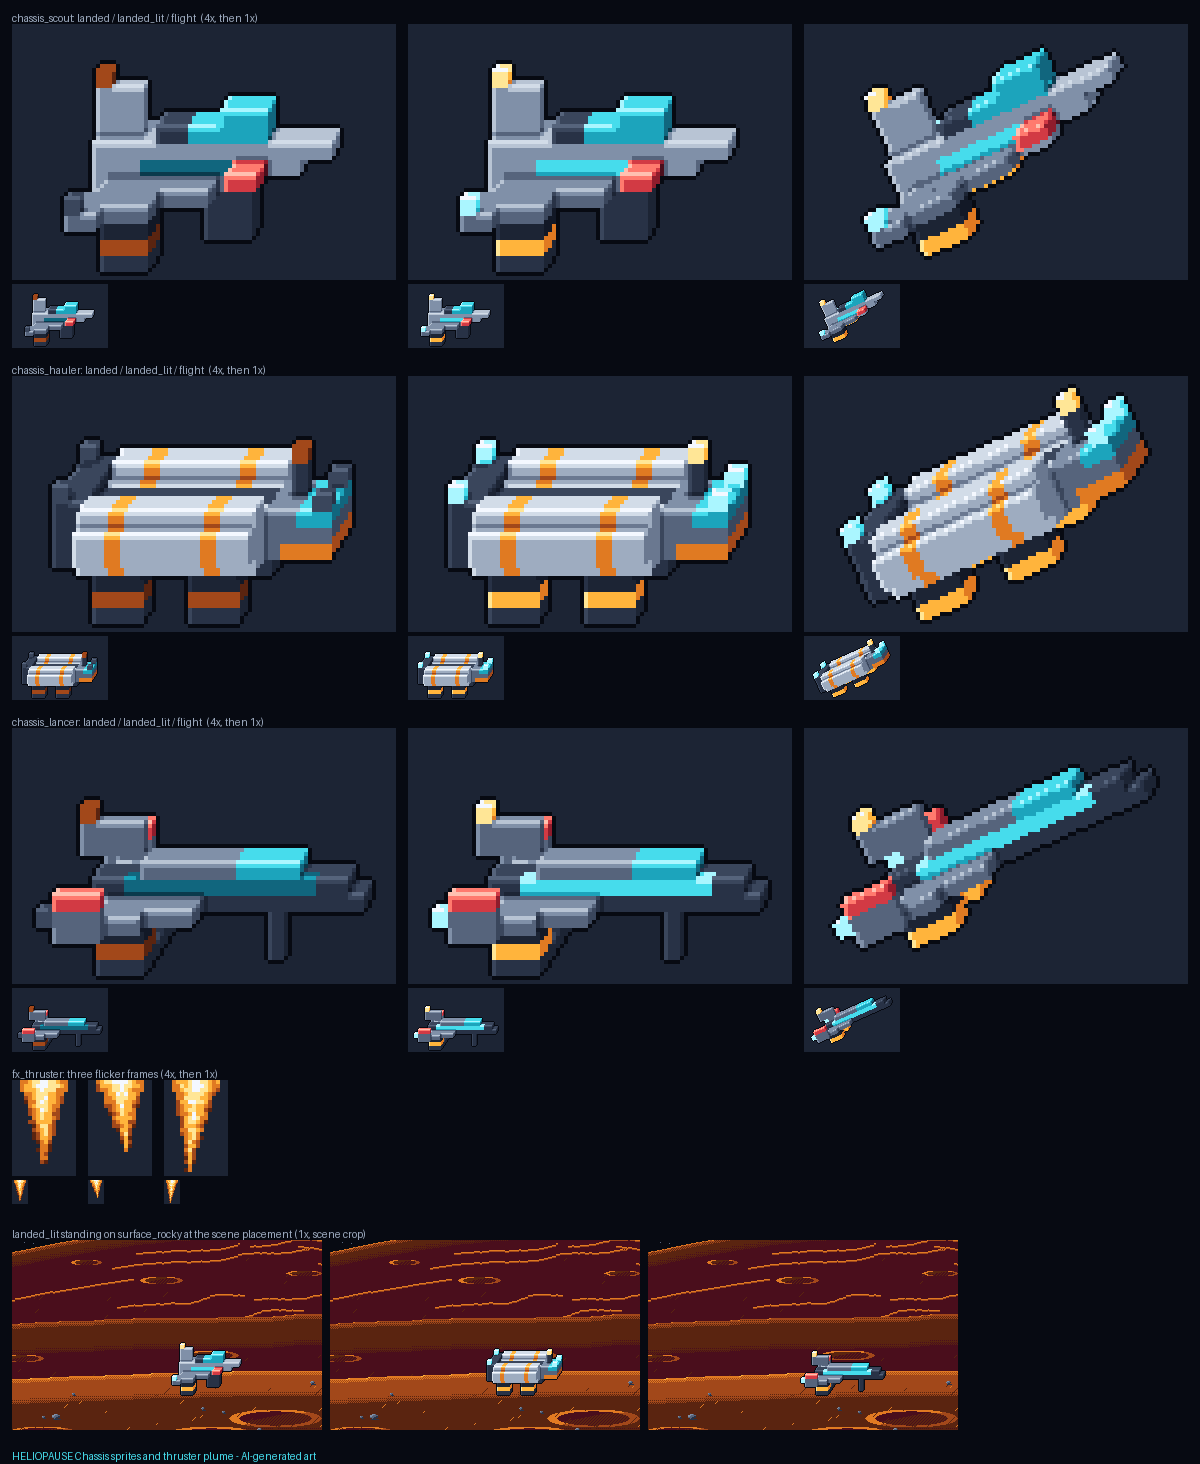
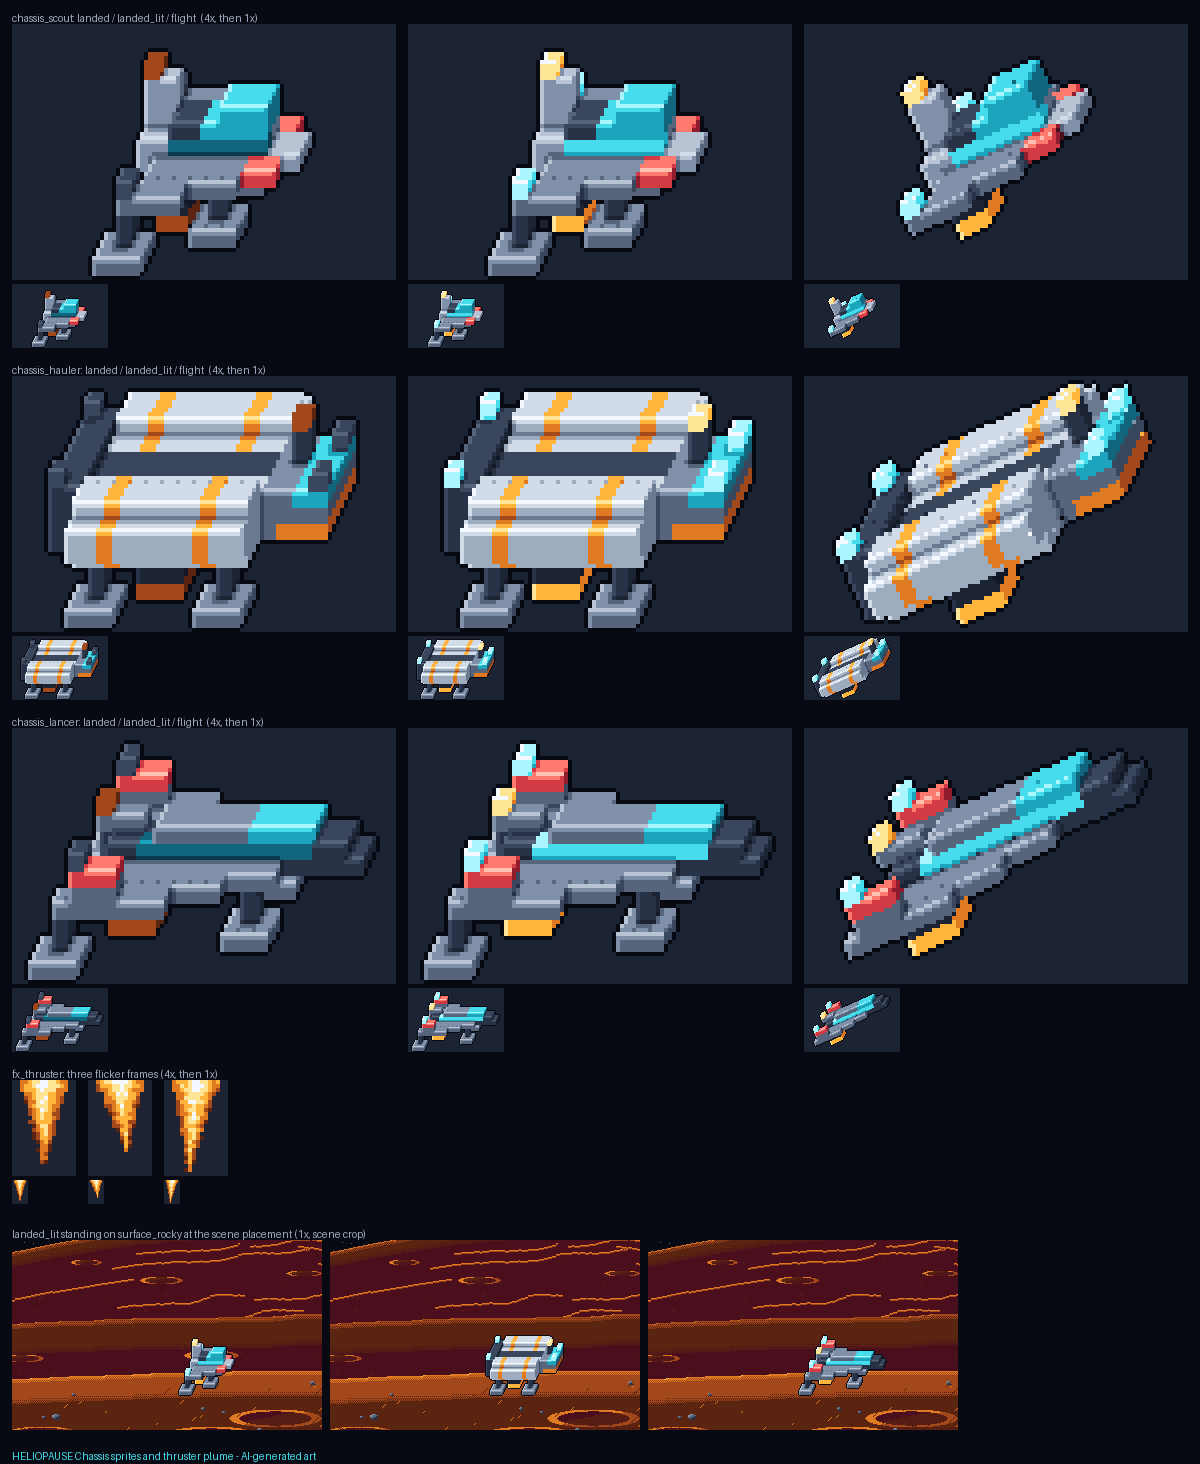
fix(assets): high 3/4 view, landing struts beside nozzles, smaller scout

diff --git a/scripts/assets/chassisAssets.test.ts b/scripts/assets/chassisAssets.test.ts
@@ -124,17 +124,48 @@ describe('Chassis sprites', () => {
     }
   });
 
+  it('the scout is the smallest landed Chassis, and every landed ship touches the frame bottom', () => {
+    const outline = (id: string): { width: number; height: number; bottom: number } => {
+      const png = decodePng(read(atlas(`chassis_${id}`).image));
+      const frame = frames(`chassis_${id}`)['landed']?.frame;
+      if (!frame) throw new Error(`${id} lacks landed`);
+      let [minX, minY, maxX, maxY] = [frame.w, frame.h, -1, -1];
+      for (let y = 0; y < frame.h; y++) {
+        for (let x = 0; x < frame.w; x++) {
+          if ((png.rgba[((frame.y + y) * png.width + frame.x + x) * 4 + 3] ?? 0) === 0) continue;
+          [minX, minY, maxX, maxY] = [
+            Math.min(minX, x),
+            Math.min(minY, y),
+            Math.max(maxX, x),
+            Math.max(maxY, y),
+          ];
+        }
+      }
+      return { width: maxX - minX + 1, height: maxY - minY + 1, bottom: maxY };
+    };
+    const [scout, hauler, lancer] = [outline('scout'), outline('hauler'), outline('lancer')];
+    const area = (box: { width: number; height: number }): number => box.width * box.height;
+    expect(area(scout)).toBeLessThan(area(hauler) * 0.85);
+    expect(area(scout)).toBeLessThan(area(lancer) * 0.85);
+    expect(scout.width).toBeLessThan(Math.min(hauler.width, lancer.width) - 10);
+    for (const ship of [scout, hauler, lancer]) expect(ship.bottom).toBe(63);
+  });
+
   it('uses only palette colours, fully opaque or fully transparent', () => {
     for (const key of ['chassis_scout', 'chassis_hauler', 'chassis_lancer', 'fx_thruster']) {
       const { rgba } = decodePng(read(atlas(key).image));
+      const offPalette = new Set<string>();
+      const partialAlpha = new Set<number>();
       for (let i = 0; i < rgba.length; i += 4) {
-        const alpha = rgba[i + 3];
-        expect([0, 255]).toContain(alpha);
+        const alpha = rgba[i + 3] ?? 0;
+        if (alpha !== 0 && alpha !== 255) partialAlpha.add(alpha);
         if (alpha === 255) {
           const colour = hex(rgba[i] ?? 0) + hex(rgba[i + 1] ?? 0) + hex(rgba[i + 2] ?? 0);
-          expect(palette.has(colour), `${key}: #${colour} is not in palette.json`).toBe(true);
+          if (!palette.has(colour)) offPalette.add(`#${colour}`);
         }
       }
+      expect([...offPalette], `${key}: colours not in palette.json`).toEqual([]);
+      expect([...partialAlpha], `${key}: partly transparent pixels`).toEqual([]);
     }
   });
 });

diff --git a/docs/design/sprites/gen_sprites.py b/docs/design/sprites/gen_sprites.py
@@ -786,9 +786,9 @@ def surface_preview(surfaces, ship, path):
 #   Everything in this section is self-contained (functions named `chassis_*`, `_vox*`).
 
 CHASSIS_FRAME = (96, 64)
-CHASSIS_FEET_ROW = 62  # last opaque row (outline included) of a landed frame
+CHASSIS_FEET_ROW = 63  # last opaque row of a landed frame (the outline under the feet): it touches the bottom edge
 VOX = 4  # pixels per voxel edge
-DEPTH_X, DEPTH_Y = 0.35, 0.5  # screen shift per voxel of depth (away from the viewer)
+DEPTH_X, DEPTH_Y = 0.45, 0.85  # screen shift per voxel of depth (away from the viewer): a high 3/4 view
 FLIGHT_PITCH = math.radians(24)
 
 # Material ramps, dark -> bright (face level 0..4).
@@ -865,7 +865,7 @@ class _Vox:
         g = np.zeros((hi[0] - lo[0], hi[1] - lo[1], hi[2] - lo[2]), dtype=np.int8)
         for (x, y, z), m in self.cells.items():
             g[x - lo[0], y - lo[1], z - lo[2]] = VOX_MATS.index(m) + 1
-        return g, lo
+        return g
 
 
 def _vox_ramp(mat, state):
@@ -877,11 +877,11 @@ def _vox_ramp(mat, state):
 def _vox_render(model, state, pitch=0.0, canvas=(160, 128)):
     """Ray-march the model into a transparent canvas; returns a Spr (no outline yet).
 
-    Screen = (x + 0.35y, -z - 0.5y) voxel units: far things (larger y) sit up and to the
+    Screen = (x + 0.45y, -z - 0.85y) voxel units: far things (larger y) sit up and to the
     right, so the near side face, the top and the nose face (+x) are the visible ones.
     `pitch` tilts the nose up around the model's centre.
     """
-    grid, _ = model.grid()
+    grid = model.grid()
     nx, ny, nz = grid.shape
     cx, cz = nx / 2.0, nz / 2.0
     cw, ch = canvas
@@ -960,35 +960,42 @@ def _vox_render(model, state, pitch=0.0, canvas=(160, 128)):
 
 
 # --- the three designs
-def chassis_scout(legs=True):
-    """Small and nimble: a pale dart with swept delta wings, a bubble canopy and a tall dorsal fin."""
-    v = _Vox()
-    v.box(1, 11, -1, 1, 3, 6, "pale")  # fuselage
-    v.box(11, 14, -1, 1, 4, 6, "pale")  # nose cone, belly rising
-    v.box(14, 16, -1, 1, 5, 6, "pale")  # needle tip
-    v.box(7, 12, -1, 1, 6, 7, "glass")  # bubble canopy
-    v.box(9, 12, -1, 1, 7, 8, "glass")
-    v.box(5, 7, -1, 1, 6, 7, "dark")  # canopy frame
-    v.sym(2, 9, 1, 3, 3, 4, "hull")  # swept delta wings
-    v.sym(1, 6, 3, 5, 3, 4, "hull")
-    v.sym(1, 3, 5, 6, 3, 4, "hull")
-    v.sym(10, 12, 1, 3, 4, 5, "crimson")  # canards
-    v.box(1, 4, 0, 1, 6, 9, "pale")  # dorsal fin
-    for x in range(4, 11):
-        v.put(x, -1, 4, "strip")  # glowing flank
-    v.put(1, 5, 4, "light")
-    v.put(1, -6, 4, "light")
-    v.put(1, 0, 9, "beacon")
-    v.sym(3, 6, 3, 5, 2, 3, "nozzle")  # hover nozzles under the wings
-    v.sym(3, 6, 3, 5, 1, 2, "glow")
+def _gear(v, legs, feet, nozzles):
+    """Hover nozzles (dark bell, amber outlet on the lowest layer so it faces the ground)
+    and, when landed, thin struts on flat pads standing beside them, fore and aft.
+    feet: (x0, x1, y0, y1) of each strut; its pad reaches one voxel further out."""
+    for x0, x1, y0, y1 in nozzles:
+        v.sym(x0, x1, y0, y1, 2, 3, "nozzle")
+        v.sym(x0, x1, y0, y1, 1, 2, "glow")
     if legs:
-        v.sym(3, 6, 3, 5, 0, 1, "dark")
-        v.box(8, 11, -1, 1, 0, 3, "dark")  # belly skid
+        for x0, x1, y0, y1 in feet:
+            v.sym(x0, x1, y0, y1, 1, 3, "dark")
+            v.sym(x0 - 1, x1 + 1, y0, y1 + 1, 0, 1, "hull")
+
+
+def chassis_scout(legs=True):
+    """Small and nimble: a short pale dart with swept delta wings, a bubble canopy, a dorsal fin and red canards."""
+    v = _Vox()
+    v.box(1, 9, -1, 1, 3, 5, "pale")  # fuselage
+    v.box(9, 11, -1, 1, 3, 4, "pale")  # nose
+    v.box(5, 9, -1, 1, 5, 6, "glass")  # bubble canopy
+    v.box(6, 9, -1, 1, 6, 7, "glass")
+    v.box(3, 5, -1, 1, 5, 6, "dark")  # canopy frame
+    v.sym(2, 8, 1, 3, 3, 4, "hull")  # swept delta wings
+    v.sym(1, 5, 3, 4, 3, 4, "hull")
+    v.sym(8, 10, 1, 2, 3, 4, "crimson")  # canards
+    v.box(1, 3, 0, 1, 5, 8, "pale")  # dorsal fin
+    for x in range(3, 9):
+        v.put(x, -1, 4, "strip")  # glowing flank
+    v.put(1, 3, 4, "light")
+    v.put(1, -4, 4, "light")
+    v.put(1, 0, 8, "beacon")
+    _gear(v, legs, [(1, 2, 3, 4), (6, 7, 1, 2)], [(3, 5, 1, 3)])
     return v
 
 
 def chassis_hauler(legs=True):
-    """Bulky: two fat tanks slung beside a spine, a boxy cab, four hover nozzles on stout feet."""
+    """Bulky: two fat tanks slung beside a spine, a boxy cab, a hover nozzle under each tank on four stout feet."""
     v = _Vox()
     v.box(1, 15, -1, 1, 3, 6, "dark")  # spine
     for cy in (-3.0, 3.0):
@@ -1005,39 +1012,30 @@ def chassis_hauler(legs=True):
     v.put(16, 1, 6, "light")
     v.put(0, -3, 7, "light")
     v.put(0, 2, 7, "light")
-    for x0 in (3, 9):
-        v.sym(x0, x0 + 3, 2, 4, 2, 3, "nozzle")
-        v.sym(x0, x0 + 3, 2, 4, 1, 2, "glow")
-        if legs:
-            v.sym(x0, x0 + 3, 2, 4, 0, 1, "dark")
+    _gear(v, legs, [(3, 4, 3, 4), (11, 12, 3, 4)], [(6, 9, 2, 4)])
     return v
 
 
 def chassis_lancer(legs=True):
-    """Long and sleek: a needle fuselage, a low canopy, swept blades with tip fins and a glowing flank."""
+    """Long and sleek: a needle fuselage, a low canopy, swept blades with red-capped tip fins and a glowing flank."""
     v = _Vox()
-    v.box(2, 16, -1, 1, 3, 5, "dark")  # needle fuselage
-    v.box(16, 19, -1, 1, 3, 4, "dark")  # nose
-    v.box(16, 18, -1, 1, 4, 5, "dark")
+    v.box(2, 15, -1, 1, 3, 5, "dark")  # needle fuselage
+    v.box(15, 18, -1, 1, 3, 4, "dark")  # nose
+    v.box(15, 17, -1, 1, 4, 5, "dark")
     v.box(11, 15, -1, 1, 5, 6, "glass")  # low canopy
     v.box(5, 11, -1, 1, 5, 6, "hull")  # dorsal spine
-    v.box(1, 5, 0, 1, 6, 8, "hull")  # dorsal fin
-    for x in range(4, 16):
+    v.box(1, 4, 0, 1, 5, 6, "hull")  # dorsal fin
+    for x in range(4, 15):
         v.put(x, -1, 4, "strip")  # glowing flank
-    v.sym(3, 9, 1, 3, 3, 4, "hull")  # swept blades
-    v.sym(2, 6, 3, 4, 3, 4, "hull")
-    v.sym(1, 4, 4, 5, 3, 5, "hull")  # tip fins
-    v.sym(1, 4, 4, 5, 5, 6, "crimson")
-    v.put(0, 4, 4, "light")
-    v.put(0, -5, 4, "light")
-    v.put(1, 0, 8, "beacon")
-    v.sym(3, 6, 1, 3, 2, 3, "nozzle")
-    v.sym(3, 6, 1, 3, 1, 2, "glow")
-    v.box(2, 5, -1, 1, 2, 3, "nozzle")
-    v.box(2, 5, -1, 1, 1, 2, "glow")
-    if legs:
-        v.box(3, 6, -3, 3, 0, 1, "dark")  # skid
-        v.box(13, 14, -1, 0, 0, 3, "dark")  # nose strut
+    v.sym(2, 10, 1, 3, 3, 4, "hull")  # swept blades
+    v.sym(0, 7, 3, 4, 3, 4, "hull")
+    v.sym(1, 4, 3, 4, 4, 5, "hull")  # tip fins
+    v.sym(1, 4, 3, 4, 5, 6, "crimson")
+    v.sym(10, 13, 1, 2, 3, 4, "hull")  # fore sponsons
+    v.put(1, 3, 6, "light")
+    v.put(1, -4, 6, "light")
+    v.put(1, 0, 6, "beacon")
+    _gear(v, legs, [(0, 1, 3, 4), (11, 12, 1, 2)], [(3, 6, 1, 3)])
     return v
 
 
@@ -1085,6 +1083,7 @@ def build_chassis():
 THRUSTER_W, THRUSTER_H = 16, 24
 # (length, sway, seed) per flicker frame: the plume breathes in length and wobbles sideways.
 THRUSTER_FRAMES = ((21, 0.0, 1), (18, 0.6, 2), (23, -0.6, 3))
+THRUSTER_RAMP = ("wh3", "am4", "am3", "am2", "am1", "am0")  # white-hot core out to the brown edge
 
 
 def chassis_thruster_frame(length, sway, seed):
@@ -1106,8 +1105,7 @@ def chassis_thruster_frame(length, sway, seed):
             v = r * 0.75 + t * 0.55 + noise
             if v > 1.0 and hash01(x, y, seed + 9) > 0.35:
                 continue  # ragged tip
-            ramp = ("wh3", "am4", "am3", "am2", "am1", "am0")
-            s.px(x, y, ramp[min(5, int(max(v, 0.0) * 5.2))])
+            s.px(x, y, THRUSTER_RAMP[min(5, int(max(v, 0.0) * 5.2))])
     return s
 
 
